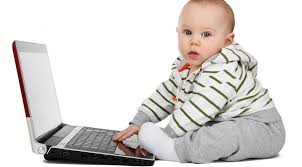
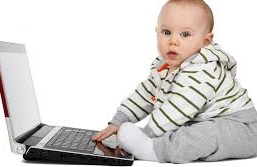
changed images to imgur links

diff --git a/portfolio.html b/portfolio.html
@@ -29,13 +29,13 @@
 
 					<div class="portfolio-row clearfix">
 						<div class="float-left">
-							<a href="#"><img src="assets/images/hangman2.jpg"></a>
+							<a href="#"><img src="https://i.imgur.com/gfG4EPv.png"></a>
 							<div class="portfolio-labels teal-background">
 								<h4 class="teal-background">Hangman</h4>
 							</div>
 						</div>
 						<div class="float-left">
-							<a href="#"><img src="assets/images/rpg.jpg"></a>
+							<a href="#"><img src="https://i.imgur.com/oMNWMZ3.jpg"></a>
 							<div class="portfolio-labels teal-background">
 								<h4 class="teal-background">RPG Game</h4>
 							</div>
@@ -44,13 +44,13 @@
 
 					<div class="portfolio-row clearfix">
 						<div class="float-left">
-							<a href="#"><img src="assets/images/trivia_game.jpg"></a>
+							<a href="#"><img src="https://i.imgur.com/TpfdFTi.jpg"></a>
 							<div class="portfolio-labels teal-background">
 								<h4 class="teal-background">Trivia Game</h4>
 							</div>
 						</div>
 						<div class="float-left">
-							<a href="#"><img src="assets/images/info_widget.jpg"></a>
+							<a href="#"><img src="https://i.imgur.com/fi2JEvz.jpg"></a>
 							<div class="portfolio-labels teal-background">
 								<h4 class="teal-background">Rutgers Info Widget</h4>
 							</div>
@@ -59,7 +59,7 @@
 
 					<div class="portfolio-row clearfix">
 						<div class="float-left">
-							<a href="#"><img src="assets/images/rock_paper_scissors.jpg"></a>
+							<a href="#"><img src="https://i.imgur.com/iQB22mp.jpg"></a>
 							<div class="portfolio-labels teal-background">
 								<h4 class="teal-background">Rock Paper Scissors</h4>
 							</div>

diff --git a/index.html b/index.html
@@ -25,7 +25,7 @@
 			<div id="content-wrapper">
 				<h1 id="content-head" class="teal-text auto-margin">About Me</h1>
 
-				<img id="bio-img" class="float-left" src="http://via.placeholder.com/200x150">
+				<img id="bio-img" class="float-left" src="https://i.imgur.com/cLg38vD.jpg">
 
 				<p id="bio-text">Lorem ipsum dolor sit amet, consectetur adipiscing elit. Vivamus varius magna lorem, ut egestas tortor imperdiet vel. Proin et dui dignissim quam congue scelerisque ut quis risus. Donec eu facilisis velit. In et eros quis mi vehicula molestie sed in nunc. Ut fermentum lacus at magna posuere, eu sollicitudin leo congue. Nunc ultrices enim ligula, pulvinar vestibulum arcu ornare vitae. Aliquam ut enim imperdiet orci blandit congue eu in sapien. Proin fringilla efficitur est nec rhoncus. Curabitur a tincidunt nulla. Praesent placerat ligula eu enim egestas congue. Phasellus bibendum ipsum consequat, interdum risus vitae, efficitur eros. Sed nisi mi, condimentum sed efficitur ac, porta ac libero. Maecenas vel est ut urna rhoncus vestibulum in id lectus. Aenean sagittis tortor ut blandit scelerisque.
 
